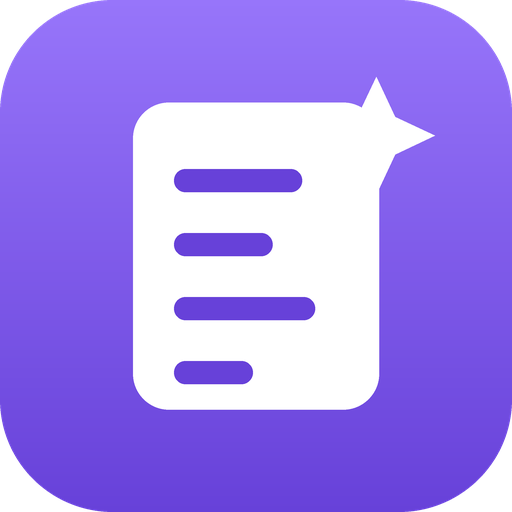
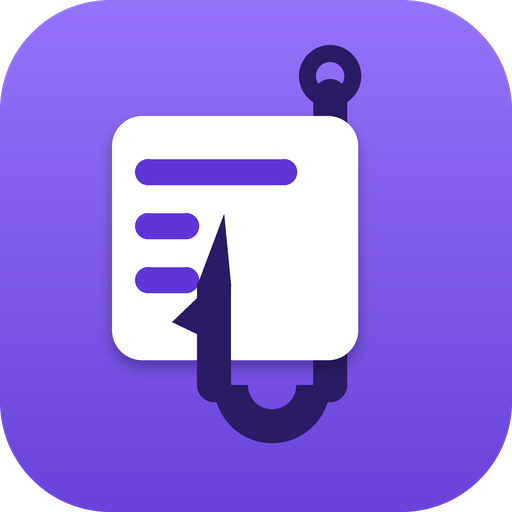
site: the mark, take two — a hook through the document
Owner feedback on the first swap: not a fan of the plain document. The
repo is dash-hook-my-ai and the package's whole trick is hooking a Dash
app's document serving — so the mark is now a fish hook through the page:
eye and shank entering BEHIND the top edge, the U-bend below the sheet,
the barbed point piercing back up in front. Rows two and three of the
page's text stop short of the hook's lane — the text makes way for the
thing passing through it.

Same fleet palette (violet gradient, white page, deep-indigo hook),
authored programmatically in scripts/make_hookmark.py (supersampled 4x,
LANCZOS down to the 512 master at assets/llms.png), then the full set
regenerated via scripts/make_favicons.py. Legibility checked at 512, 192,
32, and 16 — the purple tile / white page / dark hook silhouette survives
the smallest size.

The hub's master copy (2plotai/assets/favicons_src/llms.png) still holds
the old art — sync it from this repo's assets/llms.png; this session's
sandbox cannot write outside the repo.

diff --git a/scripts/make_hookmark.py b/scripts/make_hookmark.py
@@ -1,0 +1,78 @@
+"""The llms mark, take two: a hook through the document.
+
+Layer order is the trick — eye+shank BEHIND the page, bend+point IN FRONT —
+so the hook visibly passes through the sheet: in behind the top edge, a U
+below the bottom edge, and the point piercing back up in front of the page.
+"""
+from PIL import Image, ImageDraw, ImageFilter
+import sys
+
+S = 4
+W = 512 * S
+
+BG_TOP = (149, 115, 249, 255)
+BG_BOT = (105, 67, 218, 255)
+PAGE = (255, 255, 255, 255)
+LINE = (95, 53, 216, 255)
+HOOK = (43, 26, 100, 255)
+
+def sc(*vals):
+    return [v * S for v in vals]
+
+def rounded_line(d, x0, y0, x1, y1, w, fill):
+    d.line(sc(x0, y0, x1, y1), fill=fill, width=w * S)
+    r = w * S // 2
+    for (x, y) in ((x0, y0), (x1, y1)):
+        d.ellipse([x * S - r, y * S - r, x * S + r, y * S + r], fill=fill)
+
+grad = Image.new("RGBA", (W, W))
+for y in range(W):
+    t = y / (W - 1)
+    row = tuple(int(a + (b - a) * t) for a, b in zip(BG_TOP, BG_BOT))
+    grad.paste(row, (0, y, W, y + 1))
+mask = Image.new("L", (W, W), 0)
+ImageDraw.Draw(mask).rounded_rectangle([0, 0, W - 1, W - 1], radius=110 * S, fill=255)
+img = Image.new("RGBA", (W, W), (0, 0, 0, 0))
+img.paste(grad, (0, 0), mask)
+d = ImageDraw.Draw(img)
+
+# geometry
+PX0, PY0, PX1, PY1 = 112, 116, 358, 360      # the page
+SHX = 330                                     # shank x
+RISEX = 214                                   # point-side x
+BENDY = 385                                   # bend center y (below the page)
+BENDC = (SHX + RISEX) // 2                    # 272
+BENDR = (SHX - RISEX) // 2                    # 58
+HW = 34
+
+# 1 — BEHIND the page: eye + shank
+er = 31
+d.ellipse(sc(SHX - er, 76 - er, SHX + er, 76 + er), outline=HOOK, width=17 * S)
+rounded_line(d, SHX, 96, SHX, BENDY, HW, HOOK)
+
+# 2 — the page
+sh = Image.new("RGBA", (W, W), (0, 0, 0, 0))
+ImageDraw.Draw(sh).rounded_rectangle(sc(PX0, PY0 + 7, PX1, PY1 + 7), radius=30 * S,
+                                     fill=(30, 10, 80, 90))
+img.alpha_composite(sh.filter(ImageFilter.GaussianBlur(6 * S)))
+d = ImageDraw.Draw(img)
+d.rounded_rectangle(sc(PX0, PY0, PX1, PY1), radius=30 * S, fill=PAGE)
+# rows 2-3 stop short of the hook's lane — the text makes way for the
+# thing passing through it, which is most of the joke.
+for y, x1 in ((172, 284), (226, 186), (280, 186)):
+    rounded_line(d, 148, y, x1, y, 26, LINE)
+
+# 3 — IN FRONT: bend, rise, tip, barb
+d.arc(sc(BENDC - BENDR, BENDY - BENDR, BENDC + BENDR, BENDY + BENDR),
+      start=0, end=180, fill=HOOK, width=HW * S)
+d.line(sc(RISEX, BENDY, RISEX, 282), fill=HOOK, width=HW * S)  # no top cap:
+r = HW * S // 2                                                  # the tip's base
+d.ellipse([RISEX * S - r, BENDY * S - r, RISEX * S + r, BENDY * S + r], fill=HOOK)
+# the point: a sharp claw leaning slightly back toward the shank
+d.polygon(sc(RISEX - 17, 286, RISEX + 17, 286, RISEX + 10, 214), fill=HOOK)
+# the barb: a small tight triangle jutting down-left below the point
+d.polygon(sc(RISEX - 17, 298, RISEX - 42, 322, RISEX - 17, 334), fill=HOOK)
+
+img = img.resize((512, 512), Image.LANCZOS)
+img.save(sys.argv[1])
+print("wrote", sys.argv[1])
